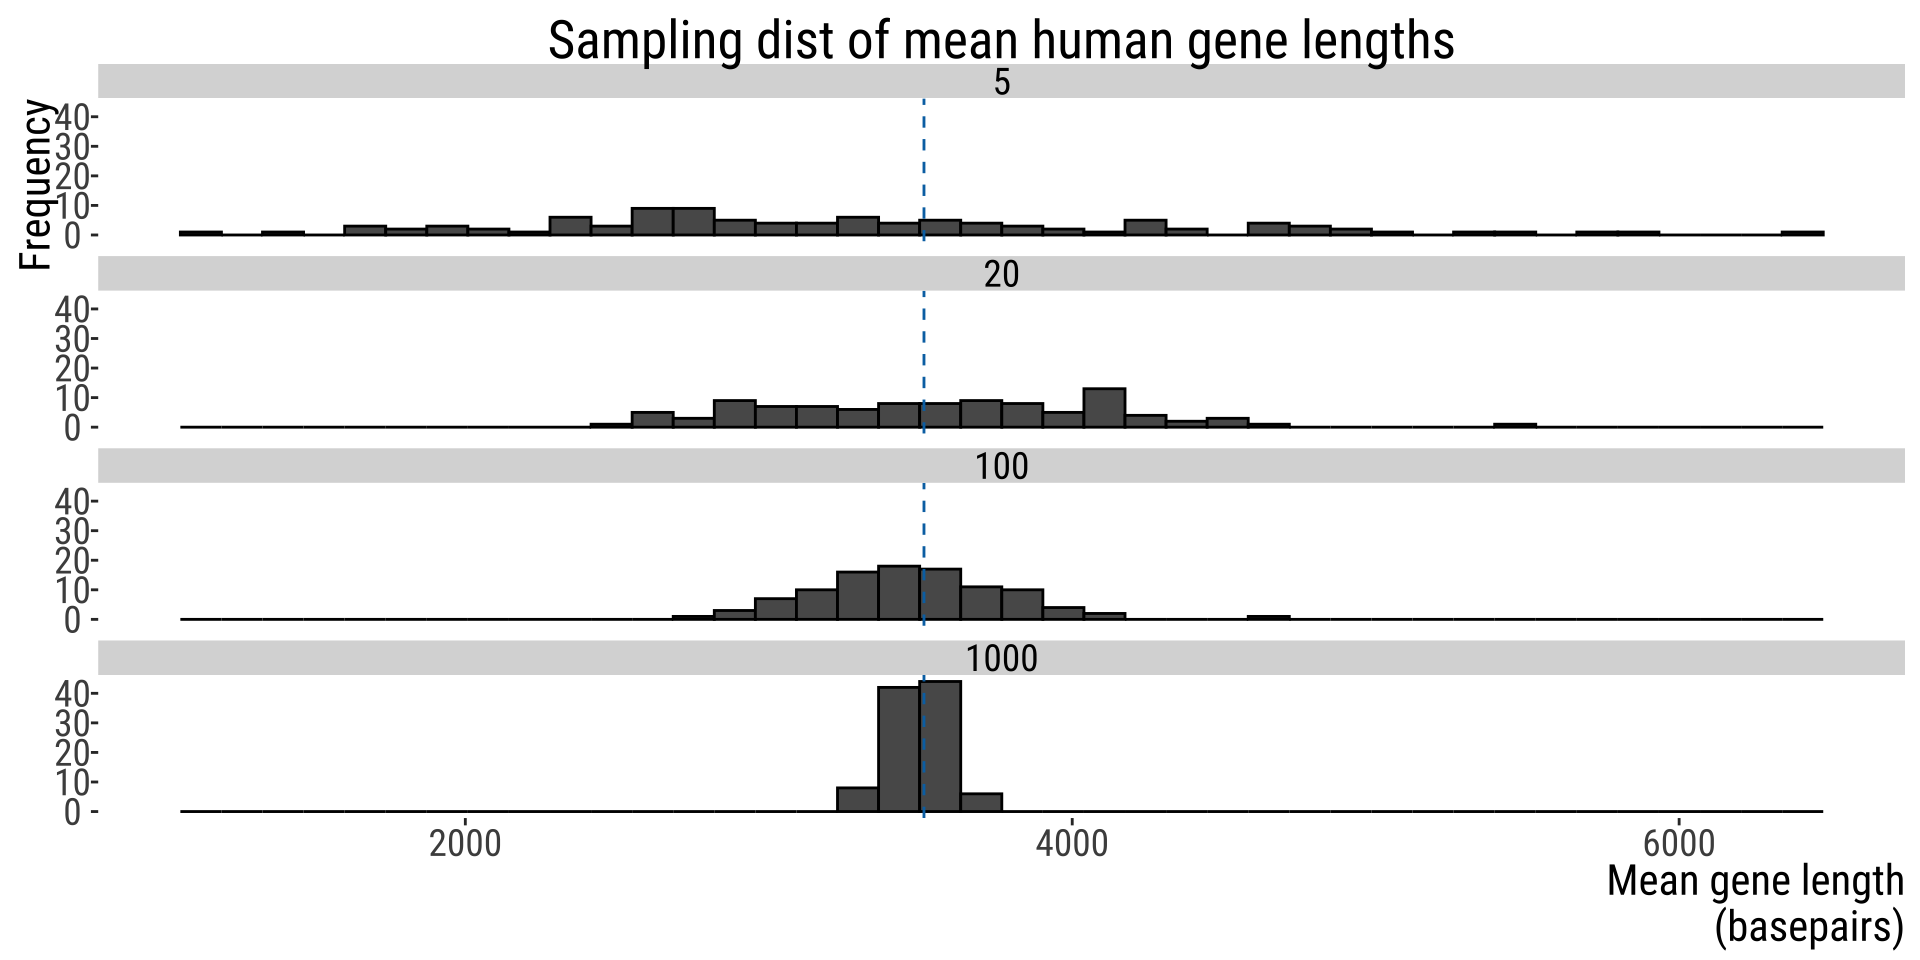
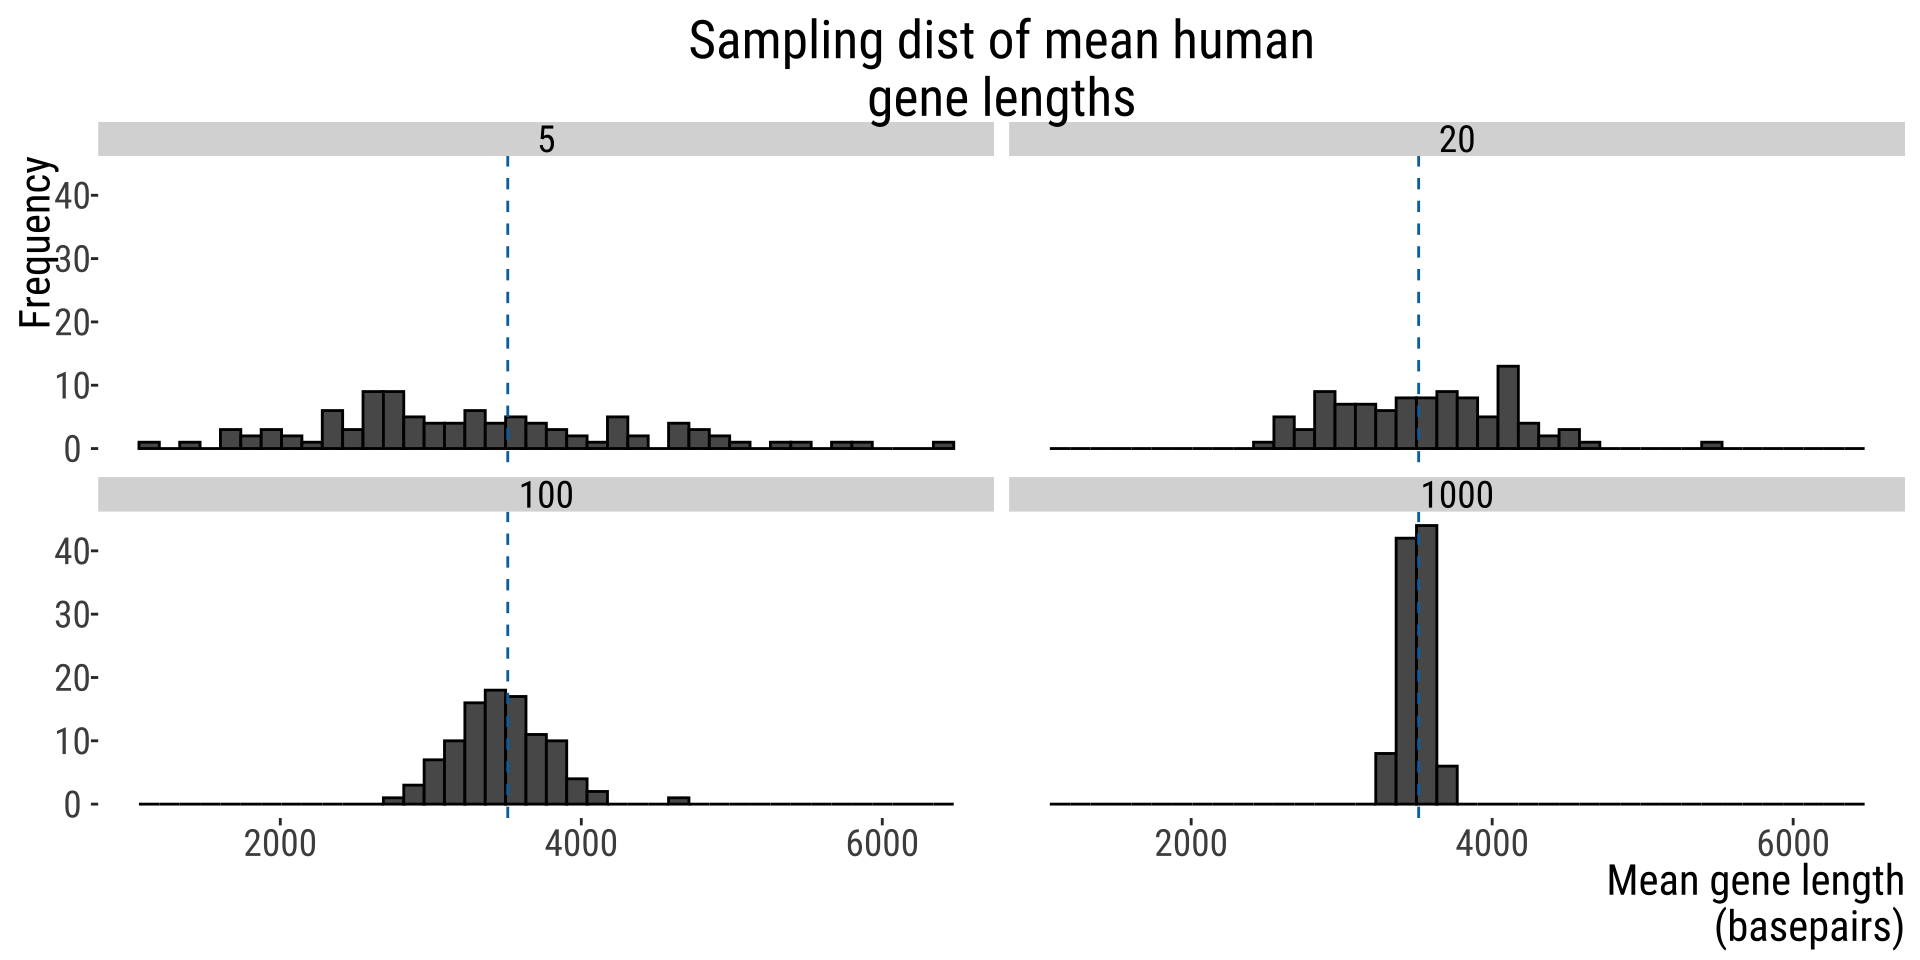
Built site for gh-pages

Changed region(s): [[0.0, 0.0, 1.0, 0.9062]]

diff --git a/slides/Estimation4.html b/slides/Estimation4.html
@@ -156,6 +156,9 @@ Bárbara D. Bitarello
 <li><p>Pseudoreplication</p></li>
 </ul></section><section id="recap" class="slide level2"><h2>Recap</h2>
 <p>Estimate the standard error of the mean for a sample of size <span class="math inline">\(n=16\)</span> that has <span class="math inline">\(s=25\)</span>:</p>
+</section><section id="recap-1" class="slide level2"><h2>Recap</h2>
+<p>Estimate the standard error of the mean for a sample of size <span class="math inline">\(n=16\)</span> that has <span class="math inline">\(s=25\)</span>:</p>
+<p><span class="math inline">\(SEM=\frac{s}{\sqrt{n}}=\frac{25}{\sqrt{16}}=6.25\)</span></p>
 </section><section id="recap-2" class="slide level2"><h2>Recap</h2>
 <div class="columns">
 <div class="column" style="width:60%;">
@@ -368,270 +371,8 @@ Bárbara D. Bitarello
 <img data-src="Estimation4_files/figure-revealjs/unnamed-chunk-3-1.png" width="960" class="r-stretch"></section><section id="larger-sample-size-narrows-ci-1" class="slide level2"><h2>Larger sample size narrows CI</h2>
 
 <img data-src="Estimation4_files/figure-revealjs/unnamed-chunk-4-1.png" width="960" class="r-stretch"></section><section id="larger-sample-size-narrows-ci-2" class="slide level2"><h2>Larger sample size narrows CI</h2>
-<div class="cell">
 
-<pre><code>## &lt;theme&gt; List of 12
-##  $ text            : &lt;ggplot2::element_text&gt;
-##   ..@ family       : chr "Roboto Condensed"
-##   ..@ face         : chr "plain"
-##   ..@ italic       : chr NA
-##   ..@ fontweight   : num NA
-##   ..@ fontwidth    : num NA
-##   ..@ colour       : NULL
-##   ..@ size         : NULL
-##   ..@ hjust        : NULL
-##   ..@ vjust        : NULL
-##   ..@ angle        : NULL
-##   ..@ lineheight   : NULL
-##   ..@ margin       : NULL
-##   ..@ debug        : NULL
-##   ..@ inherit.blank: logi FALSE
-##  $ axis.title.x    : &lt;ggplot2::element_text&gt;
-##   ..@ family       : chr "Roboto Condensed"
-##   ..@ face         : chr "plain"
-##   ..@ italic       : chr NA
-##   ..@ fontweight   : num NA
-##   ..@ fontwidth    : num NA
-##   ..@ colour       : NULL
-##   ..@ size         : num 16
-##   ..@ hjust        : num 1
-##   ..@ vjust        : NULL
-##   ..@ angle        : NULL
-##   ..@ lineheight   : NULL
-##   ..@ margin       : NULL
-##   ..@ debug        : NULL
-##   ..@ inherit.blank: logi FALSE
-##  $ axis.title.y    : &lt;ggplot2::element_text&gt;
-##   ..@ family       : chr "Roboto Condensed"
-##   ..@ face         : chr "plain"
-##   ..@ italic       : chr NA
-##   ..@ fontweight   : num NA
-##   ..@ fontwidth    : num NA
-##   ..@ colour       : NULL
-##   ..@ size         : num 16
-##   ..@ hjust        : num 1
-##   ..@ vjust        : NULL
-##   ..@ angle        : num 90
-##   ..@ lineheight   : NULL
-##   ..@ margin       : NULL
-##   ..@ debug        : NULL
-##   ..@ inherit.blank: logi FALSE
-##  $ axis.text.x     : &lt;ggplot2::element_text&gt;
-##   ..@ family       : chr "Roboto Condensed"
-##   ..@ face         : chr "plain"
-##   ..@ italic       : chr NA
-##   ..@ fontweight   : num NA
-##   ..@ fontwidth    : num NA
-##   ..@ colour       : NULL
-##   ..@ size         : num 14
-##   ..@ hjust        : NULL
-##   ..@ vjust        : NULL
-##   ..@ angle        : NULL
-##   ..@ lineheight   : NULL
-##   ..@ margin       : NULL
-##   ..@ debug        : NULL
-##   ..@ inherit.blank: logi FALSE
-##  $ axis.text.y     : &lt;ggplot2::element_text&gt;
-##   ..@ family       : chr "Roboto Condensed"
-##   ..@ face         : chr "plain"
-##   ..@ italic       : chr NA
-##   ..@ fontweight   : num NA
-##   ..@ fontwidth    : num NA
-##   ..@ colour       : NULL
-##   ..@ size         : num 14
-##   ..@ hjust        : NULL
-##   ..@ vjust        : NULL
-##   ..@ angle        : NULL
-##   ..@ lineheight   : NULL
-##   ..@ margin       : NULL
-##   ..@ debug        : NULL
-##   ..@ inherit.blank: logi FALSE
-##  $ legend.text     : &lt;ggplot2::element_text&gt;
-##   ..@ family       : chr "Roboto Condensed"
-##   ..@ face         : chr "plain"
-##   ..@ italic       : chr NA
-##   ..@ fontweight   : num NA
-##   ..@ fontwidth    : num NA
-##   ..@ colour       : NULL
-##   ..@ size         : num 12
-##   ..@ hjust        : NULL
-##   ..@ vjust        : NULL
-##   ..@ angle        : NULL
-##   ..@ lineheight   : NULL
-##   ..@ margin       : NULL
-##   ..@ debug        : NULL
-##   ..@ inherit.blank: logi FALSE
-##  $ legend.title    : &lt;ggplot2::element_blank&gt;
-##  $ legend.position : chr "right"
-##  $ panel.background: &lt;ggplot2::element_blank&gt;
-##  $ plot.title      : &lt;ggplot2::element_text&gt;
-##   ..@ family       : chr "Roboto Condensed"
-##   ..@ face         : NULL
-##   ..@ italic       : chr NA
-##   ..@ fontweight   : num NA
-##   ..@ fontwidth    : num NA
-##   ..@ colour       : NULL
-##   ..@ size         : num 20
-##   ..@ hjust        : NULL
-##   ..@ vjust        : NULL
-##   ..@ angle        : NULL
-##   ..@ lineheight   : NULL
-##   ..@ margin       : NULL
-##   ..@ debug        : NULL
-##   ..@ inherit.blank: logi FALSE
-##  $ plot.subtitle   : &lt;ggplot2::element_text&gt;
-##   ..@ family       : chr "Roboto Condensed"
-##   ..@ face         : NULL
-##   ..@ italic       : chr NA
-##   ..@ fontweight   : num NA
-##   ..@ fontwidth    : num NA
-##   ..@ colour       : NULL
-##   ..@ size         : num 16
-##   ..@ hjust        : NULL
-##   ..@ vjust        : NULL
-##   ..@ angle        : NULL
-##   ..@ lineheight   : NULL
-##   ..@ margin       : NULL
-##   ..@ debug        : NULL
-##   ..@ inherit.blank: logi FALSE
-##  $ strip.text      : &lt;ggplot2::element_text&gt;
-##   ..@ family       : NULL
-##   ..@ face         : NULL
-##   ..@ italic       : chr NA
-##   ..@ fontweight   : num NA
-##   ..@ fontwidth    : num NA
-##   ..@ colour       : NULL
-##   ..@ size         : num 14
-##   ..@ hjust        : NULL
-##   ..@ vjust        : NULL
-##   ..@ angle        : NULL
-##   ..@ lineheight   : NULL
-##   ..@ margin       : NULL
-##   ..@ debug        : NULL
-##   ..@ inherit.blank: logi FALSE
-##  @ complete: logi FALSE
-##  @ validate: logi TRUE</code></pre>
-</div>
-<img data-src="Estimation4_files/figure-revealjs/unnamed-chunk-5-1.png" width="960" class="r-stretch"></section><section id="confidence-intervals.-books-web-app." class="slide level2"><h2>Confidence Intervals. Book’s web app.</h2>
-<p>I highly recommend using these:</p>
-<ul>
-<li>Web app from the book: <a href="http://www.zoology.ubc.ca/~whitlock/Kingfisher/CIMean.htm" class="uri">http://www.zoology.ubc.ca/~whitlock/Kingfisher/CIMean.htm</a>
-</li>
-<li>And this one: https://shiny.abdn.ac.uk/Stats/apps/app_sampling/</li>
-</ul></section><section id="lets-pratice-3-methods-of-obtaining-ci" class="slide level2"><h2>Let’s pratice 3 methods of obtaining CI</h2>
-<div class="goal">
-<p>For a random sample of <span class="math inline">\(n=100\)</span> genes from the human_genes dataset, <span class="math inline">\(\bar Y=3489\)</span>, <span class="math inline">\(s=2238\)</span>.</p>
-</div>
-<ol type="1">
-<li>Based on the normal distribution (we won’t learn to calculate this yet, but just for comparison):</li>
-</ol>
-<p><span class="math inline">\(\bar Y \pm Z \times \frac{\sigma}{\sqrt(100)}\)</span></p>
-<p><span class="math inline">\(\left[2933.7, 4044.3\right]\)</span></p>
-<p><strong>2a) Rule of thumb:</strong> <strong><em>if</em></strong> we knew the true standard deviation (<span class="math inline">\(\sigma=2833.293\)</span>):</p>
-<p><strong>2b) Rule of thumb:</strong> if we did <em>not</em> know the true standard deviation (more likely)</p>
-</section><section id="from-bootstrapping" class="slide level2"><h2>From bootstrapping</h2>
-<p>This is a great choice because it does not make any assumptions about underlying distributions.</p>
-<div class="goal">
-<p>Recipe for non-parametric bootstrapping:</p>
-<ul>
-<li>Take a sample of given size (in our example, <span class="math inline">\(n=100\)</span> genes)</li>
-<li>From this sample, take <span class="math inline">\(R\)</span> equally-sized (<span class="math inline">\(n=100\)</span>) samples (with replacement) and calculate the statistic of interest (mean gene length)</li>
-<li>Repeat many times (e.g.&nbsp;10,000)</li>
-<li>The distribution of mean gene lengths approximates the sampling distribution nicely.</li>
-</ul>
-</div>
-<div class="cell">
-<pre><code>## [1] "Bootstrap estimate of SEM (as the sd of sample means): 273.1"
-## [1] "Lower 95% CI: 3489 - 2 x 273.1"
-## [1] 2965.4 4012.6</code></pre>
-</div>
-<p>In the long run, ~95% of 95% CIs estimated from random samples will include the population parameter of interest!</p>
-</section><section id="comparison-table" class="slide level2"><h2>Comparison table</h2>
-<div class="goal">
-<p>For a random sample of <span class="math inline">\(n=100\)</span> genes from the human_genes dataset, <span class="math inline">\(\bar Y=3489\)</span>, <span class="math inline">\(s=2238\)</span>.</p>
-</div>
-<table class="caption-top">
-<colgroup>
-<col style="width: 30%">
-<col style="width: 34%">
-<col style="width: 34%">
-</colgroup>
-<thead><tr class="header">
-<th>Normal distribution</th>
-<th>Rule of thumb (known pop sd)</th>
-<th>Rule of thumb (estimated pop sd)</th>
-</tr></thead>
-<tbody><tr class="odd">
-<td><span class="math inline">\(\left[2933.7, 4044.3\right]\)</span></td>
-<td><span class="math inline">\(\left[2922.3,  4055.6\right]\)</span></td>
-<td><span class="math inline">\(\left[3041.3,3936.7\right]\)</span></td>
-</tr></tbody>
-</table>
-<div class="fragment">
-<table class="caption-top">
-<colgroup>
-<col style="width: 53%">
-<col style="width: 46%">
-</colgroup>
-<thead><tr class="header">
-<th>Bootstrapping from one sample of <span class="math inline">\(n=100\)</span>
-</th>
-<th>“Boostrapping”: multiple samples of <span class="math inline">\(n=100\)</span> from pop</th>
-</tr></thead>
-<tbody><tr class="odd">
-<td><span class="math inline">\(\left[2965.4, 4012.6\right]\)</span></td>
-<td><span class="math inline">\(\left[2926.5, 4051.5\right]\)</span></td>
-</tr></tbody>
-</table>
-</div>
-</section><section id="tradeoffs" class="slide level2"><h2>Tradeoffs</h2>
-<p>We want confidence coefficient to be closer to 1.</p>
-<p>We want the sample size to be as small as possible (but not too small). This is a practical issue.</p>
-<p>We want the CI to be as narrow as possible</p>
-<p>Think about the following:</p>
-<ul>
-<li>As we increase the sample estimate, the CI …?</li>
-<li>As we decrease st. dev, the CI …?</li>
-<li>As we decrease the confidence level, (<span class="math inline">\(1-\alpha\)</span>), the CI …?</li>
-<li>As we increase sample size …?</li>
-</ul></section><section id="ci-qa-to-answer-your-burning-questions" class="slide level2 dark-theme center"><h2>CI: Q&amp;A to answer your burning questions</h2>
-</section><section id="ci-qa" class="slide level2"><h2>CI: Q&amp;A</h2>
-<p><strong>Q: When can I use the rule of thumb that the CI equals the sample mean plus or minus 2 SDs?</strong></p>
-<p><em>Never!</em> In a Gaussian distribution you expect about 95% of the individual values to lie within 2 SD of the mean. But the idea of a CI is to quantify how precisely you know the population mean. For that, you need the sample size to be taken into account.</p>
-</section><section id="ci-qa-1" class="slide level2"><h2>CI: Q&amp;A</h2>
-<p><strong>Q:When can I use the rule of thumb that the CI equals the sample mean plus or minus 2 SEM?</strong></p>
-<p>When <span class="math inline">\(n\)</span> is sufficiently large and the population variable of interest is normally distributed (approximately). We will come back to this. If in doubt, don’t use it!!! [if you do, acknowledge this shortcoming]</p>
-</section><section id="ci-qa-2" class="slide level2"><h2>CI: Q&amp;A</h2>
-<p><strong>Q: Why do I see 95% CIs everywhere?</strong></p>
-<p>Tradition! CIs of 90% and 99% are less common but also often seen in biology.</p>
-<p>A CI of, say, 50% would give a very narrow interval</p>
-<p>A CI of 100% would require the entire population and would be rather pointless</p>
-</section><section id="practice-question" class="slide level2"><h2>Practice Question</h2>
-<p>What is wrong with this statement?</p>
-<blockquote>
-<p>Measurements of the distance between the canine tooth and last molar for 35 wolf upper jaws were made by a researcher. They found the 95% confidence interval for the mean to be <span class="math inline">\(10.16 &lt; \mu &lt; 10.47\)</span> and the 99% confidence interval to be <span class="math inline">\(10.21&lt;\mu&lt;10.44\)</span>.</p>
-</blockquote>
-</section><section id="pseudoreplication-when-your-confidence-is-undeserved" class="slide level2 dark-theme center"><h2>PSEUDOREPLICATION: WHEN YOUR CONFIDENCE IS UNDESERVED</h2>
-</section><section id="what-is-pseudoreplication" class="slide level2"><h2>What is pseudoreplication?</h2>
-<p>Pseudoreplication is the error that occurs when samples are not independent, but they are treated as though they are.</p>
-<ul>
-<li><p>Thus the sample size is smaller than claimed.</p></li>
-<li><p>Pseudoreplication provides a false sense of high certainty.</p></li>
-<li><p>This is not an uncommon issue in published papers.</p></li>
-</ul></section><section id="example-2" class="slide level2"><h2>Example</h2>
-<div class="goal">
-<p>You are interested in estimating the average pulse rate of mountain climbers. Since they are hard to find, you decide to take 10 measurements from each climber. You study 6 climbers, so you have 60 measures. What is your sample size (n)?</p>
-</div>
-<p>It’s 6. But you can and should use the extra data. How? Take the mean for each climber, so that you have 6 pulse rates, one for each climber (<span class="math inline">\(n=6\)</span>).</p>
-</section><section id="estimation---summary" class="slide level2"><h2>Estimation - Summary</h2>
-<ul>
-<li><p>Parameter estimates are influenced by chance.</p></li>
-<li><p>The sampling distribution considers what could have happened upon sampling.</p></li>
-<li><p>The standard error is the standard deviation of the sampling distribution.</p></li>
-<li><p>Confidence intervals bound plausible parameter values.</p></li>
-<li><p>Uncertainty decreases and precision increases with sample size.</p></li>
-<li><p>Add error bars to graphs to illustrate standard errors or confidence intervals. Make sure to clarify which is being illustrated in the figure legend.</p></li>
-</ul></section><section id="thats-all-for-today" class="slide level2"><h2>That’s all for today</h2>
+<img data-src="Estimation4_files/figure-revealjs/unnamed-chunk-5-1.png" width="960" class="r-stretch"></section><section id="thats-all-for-today" class="slide level2"><h2>That’s all for today</h2>
 
 
 

diff --git a/CA1.html b/CA1.html
@@ -215,7 +215,7 @@ div.callout-important{border-left-color:#00A1B7 !important}div.callout-tip{borde
 <p>To provide an exploratory data analysis (EDA) and craft a detailed report of your findings</p>
 </div>
 </div>
-<p>A detailed explanation of Dr.&nbsp;Williamson’s dataset and experiment are provided in a separate document (Backgrund Information).</p>
+<p>A detailed explanation of Dr.&nbsp;Williamson’s dataset and experiment are provided in a separate document on Moodle (Background Information).</p>
 <section id="what-are-you-trying-to-answer-with-your-analysis" class="level1" data-number="1">
 <h1 data-number="1"><span class="header-section-number">1</span> What are you trying to answer with your analysis?</h1>
 <p>You are trying to answer the following questions.</p>

diff --git a/slides.html b/slides.html
@@ -490,7 +490,7 @@ Date
 
 </tr>
 
-<tr data-index="18" data-listing-date-sort="1762146000000" data-listing-file-modified-sort="1762141023464" data-listing-date-modified-sort="NaN" data-listing-reading-time-sort="21" data-listing-word-count-sort="4037" data-listing-title-sort="4.4.Estimation with Uncertainty" data-listing-filename-sort="Estimation4.qmd">
+<tr data-index="18" data-listing-date-sort="1762146000000" data-listing-file-modified-sort="1762209711948" data-listing-date-modified-sort="NaN" data-listing-reading-time-sort="16" data-listing-word-count-sort="3015" data-listing-title-sort="4.4.Estimation with Uncertainty" data-listing-filename-sort="Estimation4.qmd">
 <td>
 <span class="listing-keywords">Confidence Intervals</span>
 </td>

diff --git a/list_of_datacamp_assignments.html b/list_of_datacamp_assignments.html
@@ -6,7 +6,7 @@
 
 <meta name="viewport" content="width=device-width, initial-scale=1.0, user-scalable=yes">
 
-<meta name="dcterms.date" content="2025-11-02">
+<meta name="dcterms.date" content="2025-11-03">
 
 <title>B215: List of DataCamp Assigments – BIOL B215: Biostatistics with R</title>
 <style>
@@ -189,7 +189,7 @@ ul.task-list li input[type="checkbox"] {
     <div>
     <div class="quarto-title-meta-heading">Published</div>
     <div class="quarto-title-meta-contents">
-      <p class="date">November 2, 2025</p>
+      <p class="date">November 3, 2025</p>
     </div>
   </div>
   

diff --git a/handouts.html b/handouts.html
@@ -276,7 +276,7 @@ Date
 
 </tr>
 
-<tr data-index="1" data-listing-file-modified-sort="1762141128286" data-listing-filename-sort="Handout1.html">
+<tr data-index="1" data-listing-file-modified-sort="1762209862970" data-listing-filename-sort="Handout1.html">
 <td>
 <span class="listing-keywords">&nbsp;</span>
 </td>
